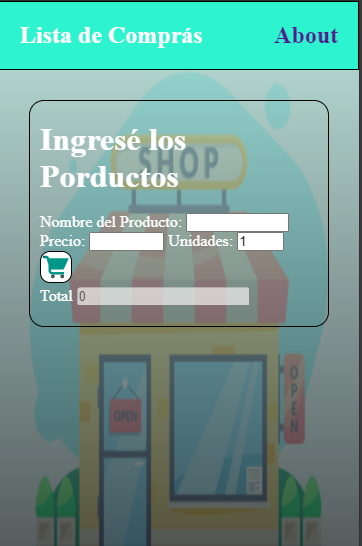
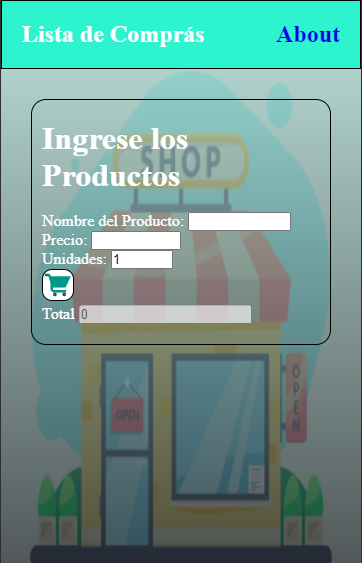
ahora si

Changed region(s): [[0.0608, 0.1868, 0.942, 1.0], [0.0, 0.0, 1.0, 1.0], [0.0912, 0.6538, 0.1215, 0.7161]]

diff --git a/styles.css b/styles.css
@@ -60,5 +60,5 @@ li{
   margin: 20px;
   list-style: none;
   display: flex;
-  justify-content: space-evenly;
+  justify-content: space-between;
 }
